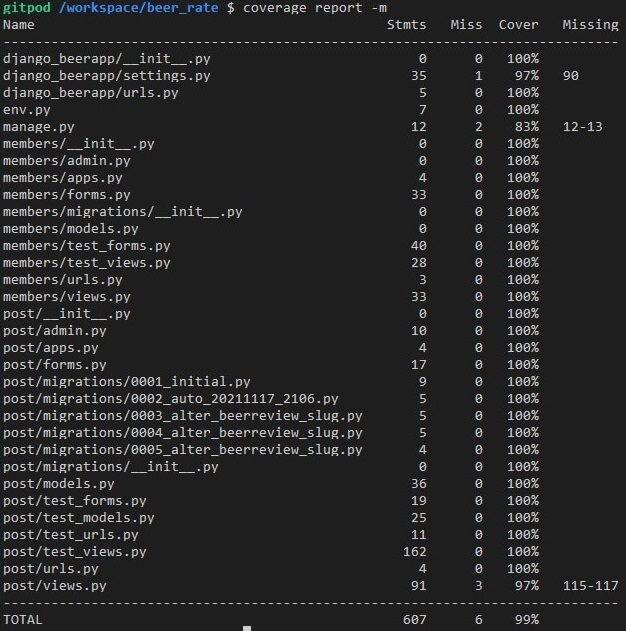
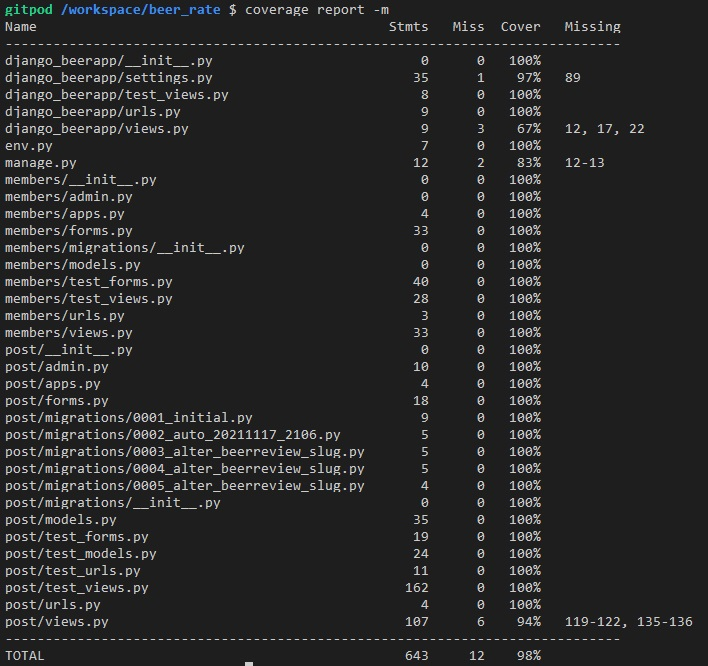
Update unit tests overall

diff --git a/django_beerapp/test_views.py b/django_beerapp/test_views.py
@@ -5,48 +5,12 @@ from django.urls import reverse
 from post.models import BeerReview, Beer, BeerStyle
 
 
-class SetupViewTestCase(TestCase):
-    """ Base test """
-    def setUp(self):
-        self.username = 'joe'
-        self.password = '12345'
-        user = User.objects.create_user(
-            username=self.username,
-            email='joe@doe.com',
-            password=self.password)
-        self.client.login(username='joe', password='12345')
-        self.beer = Beer.objects.create(beer_name='Beer')
-        self.beer_style = BeerStyle.objects.create(beer_style='Style')
-        self.beer_review = BeerReview.objects.create(
-            beer_style=self.beer_style,
-            beer=self.beer,
-            user_name=user,
-            pub_date='Oct. 24, 2021, 8:52 p.m.',
-            review='Review Test',
-            bitterness='5',
-            money_value='3',
-            score='1')
-        self.url = reverse('review_update', kwargs={
-            'pk': 1
-        })
-
-
-class TestHttpErrors(SetupViewTestCase):
-    """ Test raised errors pages """
-    def setUp(self):
-        """Setup user and review from SetupViewTestCase"""
-        super().setUp()
-        self.client.login(user_name=self.username, password=self.password)
-
+class TestHttpErrors(TestCase):
+    """ Test raised 404 error page """
+ 
     def test_page_not_found_view(self):
         """ Test if review detail url exist """
         response = self.client.get(
             '/review_list/review_detail/0')
         self.assertEqual(response.status_code, 404)
 
-    # def test_my_custom_permission_denied_view(self):
-    #     super().__init__()
-    #     self.client.login(username='joana', password='12345')
-    #     response = self.client.get(
-    #         'review_list/edit')
-    #     self.assertEqual(response.status_code, 403)

diff --git a/django_beerapp/settings.py b/django_beerapp/settings.py
@@ -13,7 +13,7 @@ TEMPLATES_DIR = os.path.join(BASE_DIR, 'templates')
 
 SECRET_KEY = os.environ.get('SECRET_KEY')
 
-DEBUG = False
+DEBUG = True
 
 # For debugging
 if DEBUG:

diff --git a/TESTING.md b/TESTING.md
@@ -43,9 +43,13 @@ At the end of the development of this project (phase 1 - before submission day),
 
 <p><img src="media/readme/unittests_ss/coverage_beer_app.jpg"></p>
 
++ **django_beerapp/views.py**
+
+    Uncovered lines on django_beeraap/views are related to pages error handling (400, 403,404 and 500 errors) for the entire platform. These functions were tested manually and no errors have been found. 
+
 + **post/views.py**
 
-    The lines uncovered by unit tests on post/views.py refer to the update view function and are described in the bugs section in the readme.md. As this automated test was not done, manual tests were conducted to ensure that features were working as expected and without errors. 
+    The lines uncovered by unit tests on post/views.py refers to the update and delete views functions and are described in the bugs section in the readme.md. As this automated test was not done, manual tests were conducted to ensure that features were working as expected and without errors. 
 
 + **django_beerapp/settings.py**
 
@@ -165,17 +169,18 @@ At the end of the development of this project (phase 1 - before submission day),
 All Html pages were validated using W3 tool. 
 
 All results can be foound here
-        <img src="media/readme/htmlvalidation/validation_home.png" width="400" height="200" alt="Pep8 validation post admin.py"/>
-        <img src="media/readme/htmlvalidation/validation_register.png" width="400" height="200" alt="Pep8 validation post apps.py"/>
-        <img src="media/readme/htmlvalidation/validation_login.png" width="400" height="200" alt="Pep8 validation post forms.py"/>
-        <img src="media/readme/htmlvalidation/validation_stylesearch.png" width="400" height="200" alt="Pep8 validation post models.py"/>
-        <img src="media/readme/htmlvalidation/validation_stylesearchnoreview.png" width="400" height="200" alt="Pep8 validation post test_models.py"/>
-        <img src="media/readme/htmlvalidation/validation_beerseach.png" width="400" height="200" alt="Pep8 validation post test_urls.py"/>
-        <img src="media/readme/htmlvalidation/validation_beerseachnoreview.png" width="400" height="200" alt="Pep8 validation post test_views.py"/>
-        <img src="media/readme/htmlvalidation/validation403page.png" width="400" height="200" alt="Pep8 validation post urls.py"/>
-        <img src="media/readme/htmlvalidation/validation404page.png" width="400" height="200" alt="Pep8 validation post views.py"/>
-        <img src="media/readme/htmlvalidation/validation500page.png" width="400" height="200" alt="Pep8 validation post views.py"/>
-        <img src="media/readme/htmlvalidation/validation400page.png" width="400" height="200" alt="Pep8 validation post views.py"/>
+
+<img src="media/readme/htmlvalidation/validation_home.png" width="400" height="200" alt="Pep8 validation post admin.py"/>
+<img src="media/readme/htmlvalidation/validation_register.png" width="400" height="200" alt="Pep8 validation post apps.py"/>
+<img src="media/readme/htmlvalidation/validation_login.png" width="400" height="200" alt="Pep8 validation post forms.py"/>
+<img src="media/readme/htmlvalidation/validation_stylesearch.png" width="400" height="200" alt="Pep8 validation post models.py"/>
+<img src="media/readme/htmlvalidation/validation_stylesearchnoreview.png" width="400" height="200" alt="Pep8 validation post test_models.py"/>
+<img src="media/readme/htmlvalidation/validation_beerseach.png" width="400" height="200" alt="Pep8 validation post test_urls.py"/>
+<img src="media/readme/htmlvalidation/validation_beerseachnoreview.png" width="400" height="200" alt="Pep8 validation post test_views.py"/>
+<img src="media/readme/htmlvalidation/validation403page.png" width="400" height="200" alt="Pep8 validation post urls.py"/>
+<img src="media/readme/htmlvalidation/validation404page.png" width="400" height="200" alt="Pep8 validation post views.py"/>
+<img src="media/readme/htmlvalidation/validation500page.png" width="400" height="200" alt="Pep8 validation post views.py"/>
+<img src="media/readme/htmlvalidation/validation400page.png" width="400" height="200" alt="Pep8 validation post views.py"/>
 
 ## CSS Code Validation
 
